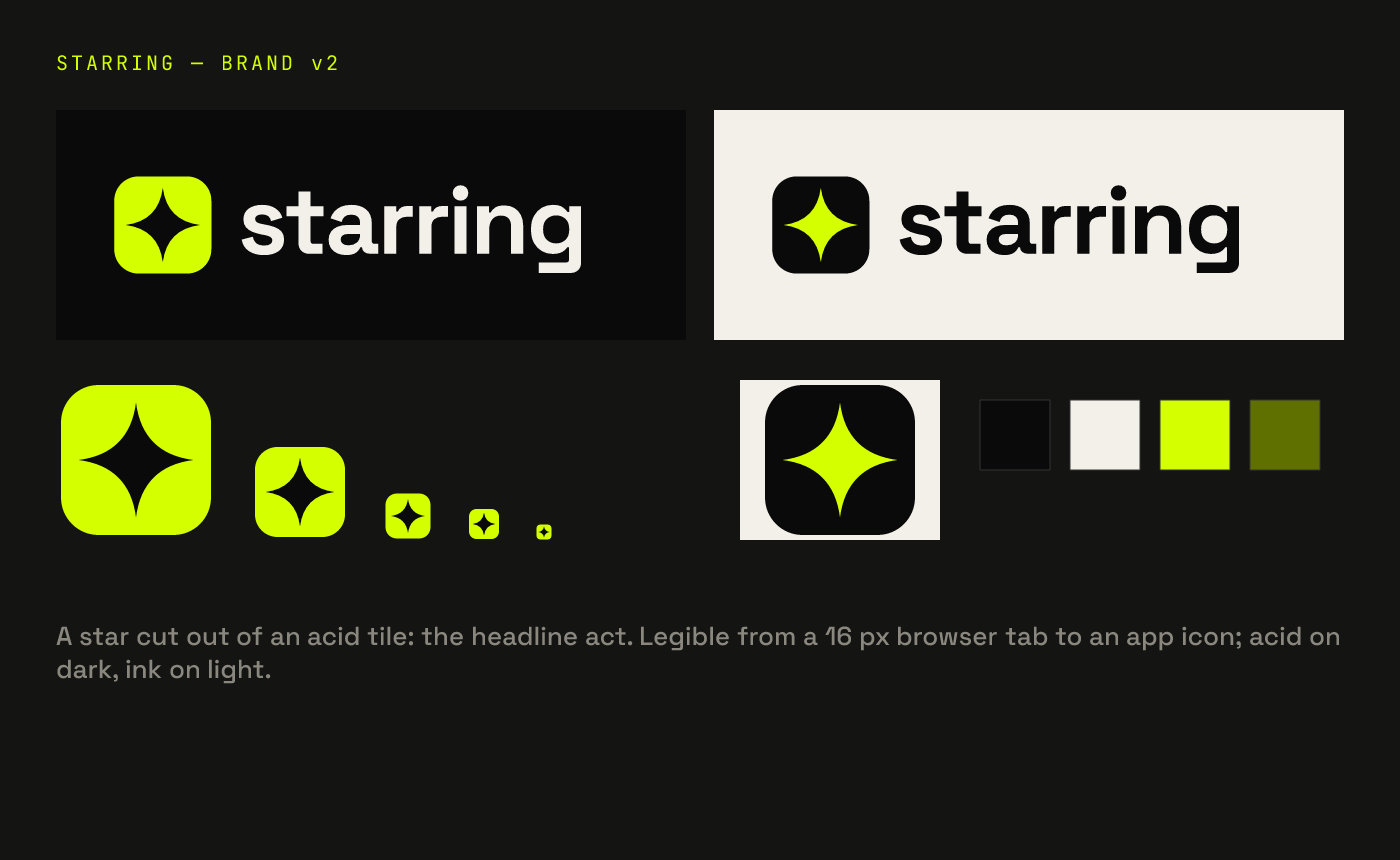
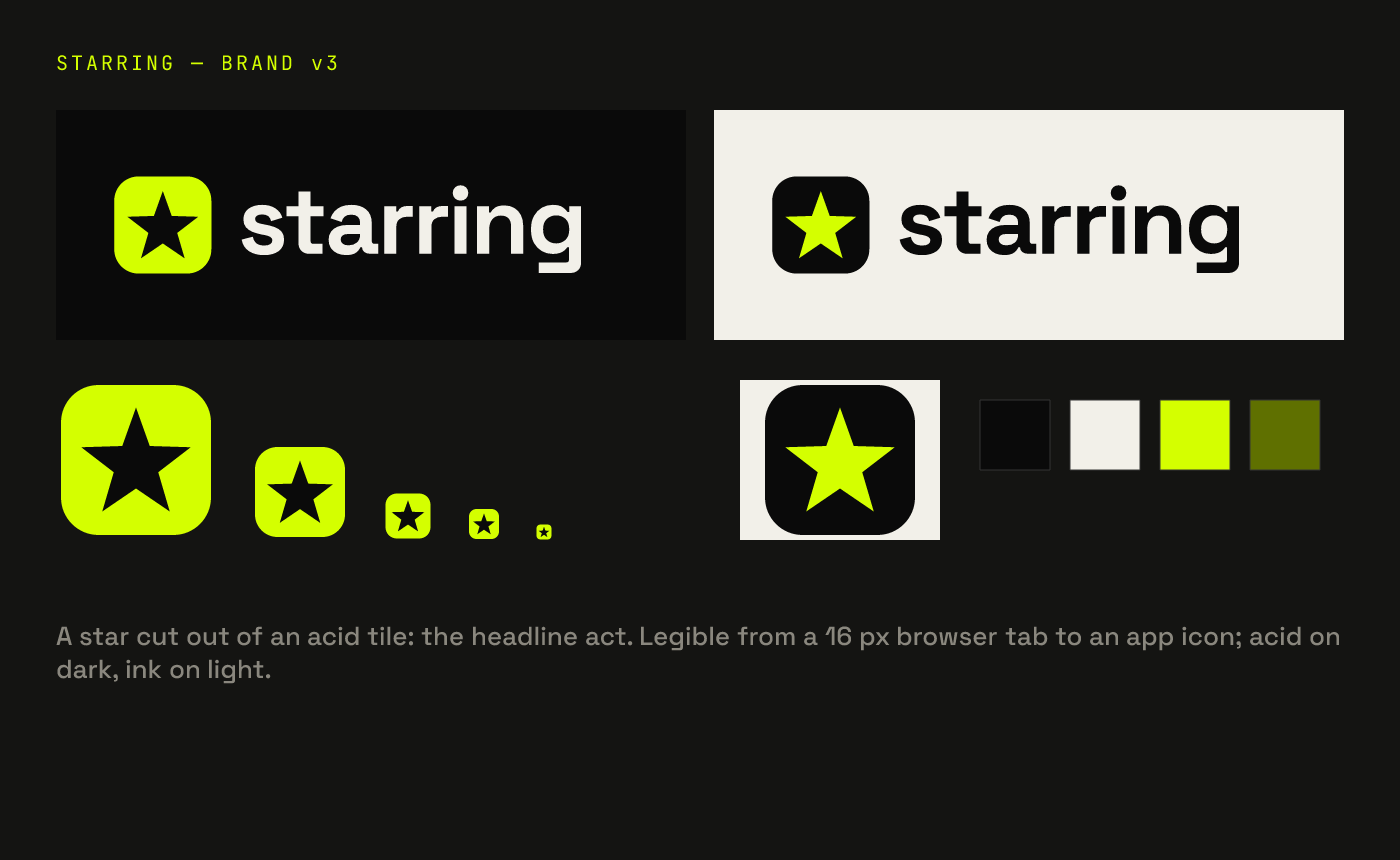
Brand v3: a five-point star on the acid tile (#110)
## Why
The four-point sparkle looked almost the same as
[Luma's](https://luma.com) mark, and like the generic "AI sparkle". The
acid tile, colours and wordmark stay the same; only the star changes, to
the classic five-point Walk of Fame star that goes with the name.

## What
- `scripts/brand.mjs`: new `STAR` path (v3). `npm run brand` regenerated
`public/brand/*`, `favicon.svg`, `apple-touch-icon.png`, the brand sheet
and `docs/brand/social-preview.png`.
- `src/trailer/engine.ts`: the trailer's end card draws the same path.
- README: the brand description is updated.

## Checked
- The brand sheet renders correctly at every size, from 16 px to the app
icon (image below).
- The trailer lockup and the star's spin-in animation, drawn locally
through `engine.ts`.
- `npm test`: no failures.

![brand
sheet](https://raw.githubusercontent.com/pipozzz/starring/star-mark/docs/brand/sheet.png)

After merge: upload `docs/brand/social-preview.png` again under Settings
→ Social preview.

🤖 Generated with [Claude Code](https://claude.com/claude-code)

diff --git a/src/trailer/engine.ts b/src/trailer/engine.ts
@@ -169,7 +169,7 @@ export function heatGeometry(st: Stage, cy: number, maxW: number, maxH: number) 
 
 // ---------- the Starring mark (same geometry as scripts/brand.mjs) ----------
 
-const STAR = 'M32 9Q34.6 29.4 55 32Q34.6 34.6 32 55Q29.4 34.6 9 32Q29.4 29.4 32 9Z';
+const STAR = 'M32 11L37.5 26.4L53.9 26.9L40.9 36.9L45.5 52.6L32 43.4L18.5 52.6L23.1 36.9L10.1 26.9L26.5 26.4Z';
 let starPath: Path2D | null = null;
 
 /**

diff --git a/README.md b/README.md
@@ -243,7 +243,7 @@ Saying you worked on a project for a company is usually fine. Showing its logo o
 
 ## Brand
 
-The mark is a four-point star cut out of an acid tile, the headline act. It's legible from a 16 px browser tab to an app icon, acid on dark and ink on light. The wordmark is a lowercase Space Grotesk *starring*. You'll find the assets in [`public/brand/`](public/brand/) (`logo.svg`, `logo-light.svg`, `mark.svg`, `app-icon.png`) and the [brand sheet](docs/brand/sheet.png). Run `npm run brand` to regenerate them.
+The mark is a five-point star, the Walk of Fame kind, cut out of an acid tile: the headline act. It's legible from a 16 px browser tab to an app icon, acid on dark and ink on light. The wordmark is a lowercase Space Grotesk *starring*. You'll find the assets in [`public/brand/`](public/brand/) (`logo.svg`, `logo-light.svg`, `mark.svg`, `app-icon.png`) and the [brand sheet](docs/brand/sheet.png). Run `npm run brand` to regenerate them.
 
 ## License
 
